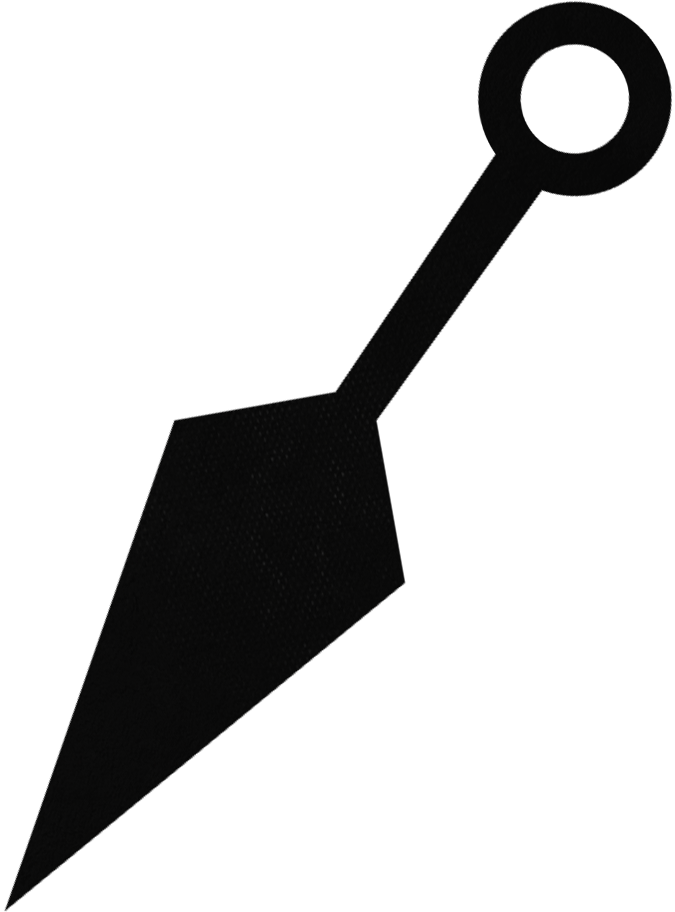
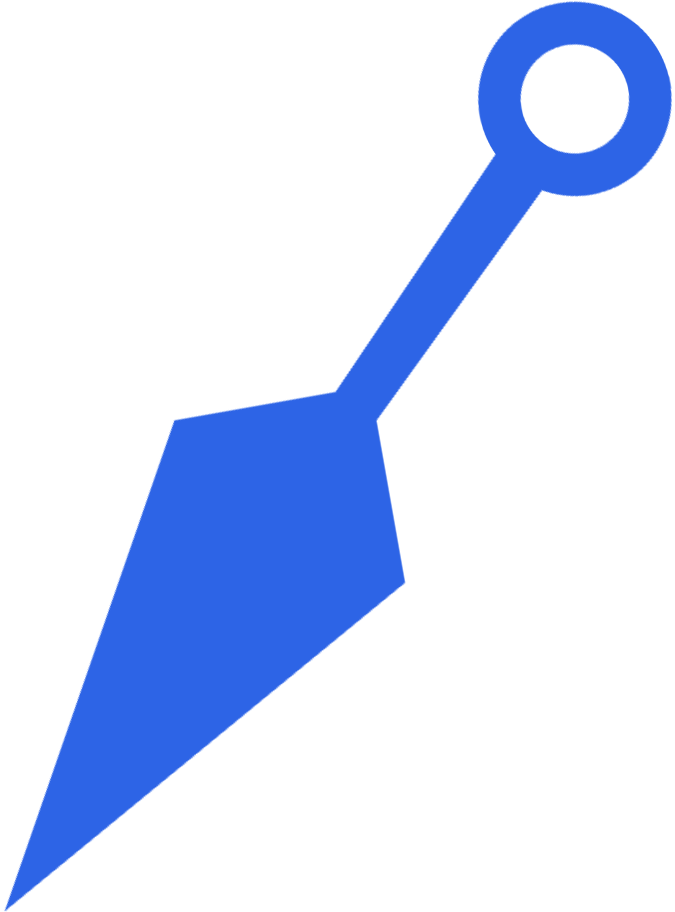
.

Changed region(s): [[0.0, 0.0, 0.9956, 1.0]]

diff --git a/index.html b/index.html
@@ -17,9 +17,9 @@
             <img src="./icon.png" alt="" class="kunai">
         </div>
         <div class="content">
-            <h1>Hello There</h1>
+            <h1>HI</h1>
             <h3>A <span class="typing"></span></h3>
-            <p>I'm <span>Mahraam</span> or aka. <span>DouMeem</span>, a (born in 2007) years old human who lives in Iran and has passion for mostly everything that is accessible in the world</p>
+            <p>I'm <span>Mahraam</span> aka <span>DouMeem</span>, a (born in 2007) years old human who lives in Iran and has passion for mostly everything that is accessible in the world</p>
             <div class="socials">
                 <a target="_blank" href="https://github.com/doumeem"><i class="bi bi-github"></i></a>
                 <a target="_blank" href="https://instagram.com/dou.meem"><i class="bi bi-instagram"></i></a>
@@ -28,41 +28,6 @@
         </div>
     </div>
     <div class="follower"></div>
-
-    <script>
-        const isTouchDevice = "ontouchstart" in window;
-        const createCursorFollower = () => {
-            const $el = document.querySelector(".follower");
-            window.addEventListener("mousemove", (e) => {
-                const { target, x, y } = e;
-                const isTragetLinkOrBtn = target?.closest("a") || target?.closest("button");
-                gsap.to($el, {
-                    x: x-5,
-                    y: y-2.5,
-                    duration: 0.5,
-                    ease: "power4",
-                    opacity: isTragetLinkOrBtn ? 0.25 : 1,
-                });
-            });
-            window.addEventListener("mouseleave", (e) => {
-                gsap.to($el, {
-                    duration: 0.5,
-                    ease: "power4",
-                    opacity: 0,
-                });
-            });
-        };
-
-        const typed = new Typed(".typing", {
-            strings: ["Dude", "Developer", "Weeb", "Gamer", "Metalhead", "Streamer"],
-            loop: true,
-            typeSpeed: 50,
-            backSpeed: 50,
-            startDelay: 500,
-            cursorChar: ' |',
-        });
-
-        if (!isTouchDevice) createCursorFollower();
-    </script>
+    <script src="./script.js"></script>
 </body>
 </html>

diff --git a/style.css b/style.css
@@ -3,8 +3,7 @@
 :root {
     --black: #1f1f1f;
     --white: #f1f1f1;
-    --light: #0070d1;
-    --dark: #00439c;
+    --blue: #2d64e6
 }
 
 * {
@@ -39,14 +38,12 @@ body {
     text-align: center;
     gap: 8rem;
     background-color: var(--black);
+    animation: fadeIn 0.75s linear;
 }
 
 .kunai {
     position: relative;
     width: 20vw;
-    box-shadow: 0 0 25px solid var(--dark);
-    filter: brightness(0) saturate(100%) invert(86%) sepia(77%) saturate(0%) hue-rotate(57deg) brightness(114%) contrast(89%);
-    transition: all 0.25s ease;
 }
 
 .content h1 {
@@ -56,7 +53,7 @@ body {
 }
 
 span {
-    color: var(--light);
+    color: var(--blue);
     font-weight: 900;
     transition: 0.25s ease;
 }
@@ -83,7 +80,7 @@ span:hover {
     width: 6rem;
     height: 6rem;
     margin: 3rem 2rem 3rem 0;
-    border: 0.2rem solid var(--light);
+    border: 0.2rem solid var(--blue);
     border-radius: 50%;
     color: var(--white);
     background: transparent;
@@ -92,9 +89,9 @@ span:hover {
 }
 
 .socials a:hover {
-    color: var(--light);
+    color: var(--blue);
     background: var(--white);
-    box-shadow: 0 0 25px var(--light);
+    box-shadow: 0 0 25px var(--blue);
     transform: scale(1.25);
 }
 
@@ -102,10 +99,10 @@ span:hover {
     position: fixed;
     top: 0;
     left: 0;
-    width: 20px;
-    height: 20px;
+    width: 50px;
+    height: 50px;
     border-radius: 100%;
-    background: var(--light);
+    background: var(--blue);
     opacity: 0;
     user-select: none;
     pointer-events: none;

diff --git a/script.js b/script.js
@@ -1,0 +1,31 @@
+const isTouchDevice = "ontouchstart" in window;
+const createCursorFollower = () => {
+    const $el = document.querySelector(".follower");
+    window.addEventListener("mousemove", (e) => {
+        const { target, x, y } = e;
+        gsap.to($el, {
+            x: x-20,
+            y: y-15,
+            duration: 0.5,
+            ease: "power4",
+            opacity: 0.25,
+        });
+    });
+    window.addEventListener("mouseleave", (e) => {
+        gsap.to($el, {
+            duration: 0.5,
+            ease: "power4",
+            opacity: 0,
+        });
+    });
+};
+
+const typed = new Typed(".typing", {
+    strings: ["Dude", "Developer", "Weeb", "Gamer", "Metalhead", "Streamer"],
+    loop: true,
+    typeSpeed: 100,
+    backSpeed: 50,
+    cursorChar: ' |',
+});
+
+if (!isTouchDevice) createCursorFollower();
